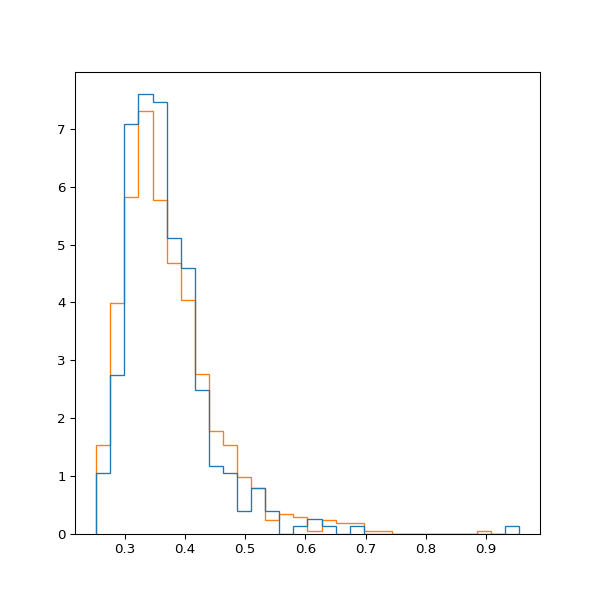
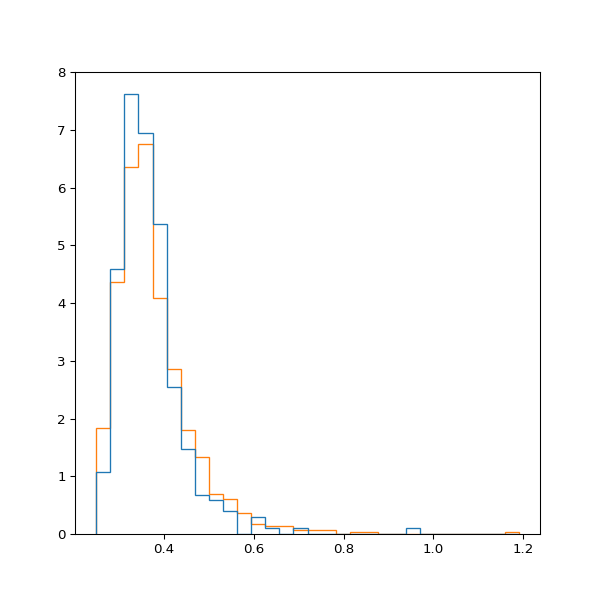
project2

diff --git a/project2/fitting.py b/project2/fitting.py
@@ -14,15 +14,18 @@ def p1model(x, c1, c2, c3, c4):
     sigma1 = c2 * x[:, 3]
     sigma2 = c3 + (1 / (np.exp(c4 * x[:, 1]) - 1))
     mu = c1 * x[:, 2]
-    sigma = (np.power(sigma1, 2) * np.power(sigma2, 2)) / \
-        (np.power(sigma1, 2) + np.power(sigma2, 2))
+    sigma = (np.power(sigma1, 2) * np.power(sigma2, 2)) / (
+        np.power(sigma1, 2) + np.power(sigma2, 2)
+    )
     for i in range(0, 8):
         if np.isnan(sigma[i]):
             sigma[i] = sigma1[i] ** 2
-    result = 0.5 * \
-        (scipy.special.erf((x[:, 0] - mu)/np.sqrt(2*sigma)
-                           ) + scipy.special.erf(mu/np.sqrt(2*sigma)))
+    result = 0.5 * (
+        scipy.special.erf((x[:, 0] - mu) / np.sqrt(2 * sigma))
+        + scipy.special.erf(mu / np.sqrt(2 * sigma))
+    )
     return 1 - result
+
 
 # Problem 1
 
@@ -30,28 +33,34 @@ def p1model(x, c1, c2, c3, c4):
 def mta_fitting(input_tech: bool, data_file_path="./dataset/mta_sample_data.csv"):
     x = []
     y = []
-    if (input_tech):
+    if input_tech:
         onkey = 1
     else:
         onkey = 0
     data = pd.read_csv(data_file_path)
-    key = data['key'] == onkey
-    success = data['success'] == 1
+    key = data["key"] == onkey
+    success = data["success"] == 1
 
     for i in range(1, 9):
-        cond = data['cond'] == i
-        y.append(1 - data[cond & key]['success'].mean())
-        x.append(data[cond & key & success].loc[:, ['timestamp', 't_cue', 't_zone', 'p']].mean().to_numpy())
+        cond = data["cond"] == i
+        y.append(1 - data[cond & key]["success"].mean())
+        x.append(
+            data[cond & key & success]
+            .loc[:, ["timestamp", "t_cue", "t_zone", "p"]]
+            .mean()
+            .to_numpy()
+        )
 
-    popt, _ = scipy.optimize.curve_fit(p1model, x, np.array(
-        y), bounds=([-0.6, 0, 0, 0], [0.6, 0.5, 0.1, 500]))
-    plt.figure(figsize=(600/96, 600/96), dpi=96)
-    plt.plot(y, p1model(x, *popt), 'ro')
-    plt.plot([0, 0.5, 1], [0, 0.5, 1], label='x=y')
+    popt, _ = scipy.optimize.curve_fit(
+        p1model, x, np.array(y), bounds=([-0.6, 0, 0, 0], [0.6, 0.5, 0.1, 500])
+    )
+    plt.figure(figsize=(600 / 96, 600 / 96), dpi=96)
+    plt.plot(y, p1model(x, *popt), "ro")
+    plt.plot([0, 0.5, 1], [0, 0.5, 1], label="x=y")
     if input_tech:
-        plt.savefig('./scatterplot/mta_pressed.png', dpi=96)
+        plt.savefig("./scatterplot/mta_pressed.png", dpi=96)
     else:
-        plt.savefig('./scatterplot/mta_released.png', dpi=96)
+        plt.savefig("./scatterplot/mta_released.png", dpi=96)
     R2 = r2_score(np.array(y), p1model(x, *popt))
     c1, c2, c3, c4 = popt
     return c1, c2, c3, c4, R2
@@ -59,7 +68,8 @@ def mta_fitting(input_tech: bool, data_file_path="./dataset/mta_sample_data.csv"
 
 def p2model(x, a, b):
     x = np.array(x)
-    return a + b * np.log(x[:, 1]/x[:, 0] + 1)
+    return a + b * np.log(x[:, 1] / x[:, 0] + 1)
+
 
 # Problem 2
 
@@ -68,34 +78,34 @@ def fl_fitting(data_file_path="./dataset/pointing_task.csv"):
     x = []
     y = []
     data = pd.read_csv(data_file_path)
-    widths = [data['width'] == 50, data['width'] == 36.7, data['width'] == 15]
-    dists = [data['distance'] == 400, data['distance'] == 800]
-    cond = data['success'] == 1
+    widths = [data["width"] == 50, data["width"] == 36.7, data["width"] == 15]
+    dists = [data["distance"] == 400, data["distance"] == 800]
+    cond = data["success"] == 1
     for i in widths:
         for j in dists:
-            x.append(data[i & j & cond].loc[:, ['width', 'distance']].mean().to_numpy())
-            y.append(data[i & j & cond]['time'].mean())
+            x.append(data[i & j & cond].loc[:, ["width", "distance"]].mean().to_numpy())
+            y.append(data[i & j & cond]["time"].mean())
     popt, _ = scipy.optimize.curve_fit(p2model, x, np.array(y), p0=[0, 1])
-    plt.figure(figsize=(600/96, 600/96), dpi=96)
-    plt.plot(y, p2model(x, *popt), 'ro')
-    plt.plot([0.3, 0.5, 0.7], [0.3, 0.5, 0.7], label='x=y')
-    plt.savefig('./scatterplot/f1.png', dpi=96)
+    plt.figure(figsize=(600 / 96, 600 / 96), dpi=96)
+    plt.plot(y, p2model(x, *popt), "ro")
+    plt.plot([0.3, 0.5, 0.7], [0.3, 0.5, 0.7], label="x=y")
+    plt.savefig("./scatterplot/f1.png", dpi=96)
     R2 = r2_score(p2model(x, *popt), np.array(y))
     a, b = popt
     return a, b, R2
 
 
 # Problem 3
-given_instruction_is = 2    # 1 OR 2
+given_instruction_is = 2  # 1 OR 2
 
 
 def ecdf(x):
     y = np.cumsum(np.ones(x.shape[0]))
-    return np.sort(x), y/y.shape[0]
+    return np.sort(x), y / y.shape[0]
 
 
 def logLikelihood(xdata, x, y):
-    res = (np.interp(xdata + 0.01, x, y) - np.interp(xdata, x, y))/0.01
+    res = (np.interp(xdata + 0.01, x, y) - np.interp(xdata, x, y)) / 0.01
     res[res == 0] = 0.0000000000001
     return np.sum(np.log(res))
 
@@ -113,24 +123,36 @@ def p3model(x, xdata):
 
 # Problem 4
 def dd_fitting(data_file_path="./dataset/choice_reaction.csv"):
-    data = pd.read_csv(data_file_path).sort_values(
-        by=['reaction_time']).to_numpy()
+    data = pd.read_csv(data_file_path).sort_values(by=["reaction_time"]).to_numpy()
 
-    res = scipy.optimize.minimize(p3model, [0.074, 0.31, 0.28], args=(
-        data), method='Nelder-Mead', bounds=[(0.045, 0.075), (0.25, 0.32), (0.25, 0.35)])
+    res = scipy.optimize.minimize(
+        p3model,
+        [0.074, 0.316, 0.283],
+        args=(data),
+        method="L-BFGS-B",
+        bounds=[(0.045, 0.075), (0.25, 0.32), (0.25, 0.35)],
+    )
     print(res)
-    a, mu, Ter = res['x']
+    a, mu, Ter = res["x"]
     xdata = np.array(drift_diffusion_simulation(a, mu, Ter)).T
-    plt.figure(figsize=(600/96, 600/96), dpi=96)
-    plt.hist((data[data[:, 1] == 1][:, 0], xdata[xdata[:, 1] == 1][:, 0]),
-             bins=30, histtype='step', density=True)
-    plt.savefig('./scatterplot/dd_correct.png', dpi=96)
+    plt.figure(figsize=(600 / 96, 600 / 96), dpi=96)
+    plt.hist(
+        (data[data[:, 1] == 1][:, 0], xdata[xdata[:, 1] == 1][:, 0]),
+        bins=30,
+        histtype="step",
+        density=True,
+    )
+    plt.savefig("./scatterplot/dd_correct.png", dpi=96)
     plt.clf()
-    plt.hist((data[data[:, 1] == 0][:, 0], xdata[xdata[:, 1] == 0][:, 0]), 
-             bins=30, histtype='step', density=True)
-    plt.savefig('./scatterplot/dd_error.png', dpi=96)
+    plt.hist(
+        (data[data[:, 1] == 0][:, 0], xdata[xdata[:, 1] == 0][:, 0]),
+        bins=30,
+        histtype="step",
+        density=True,
+    )
+    plt.savefig("./scatterplot/dd_error.png", dpi=96)
 
-    return a, mu, Ter, -res['fun']
+    return a, mu, Ter, -res["fun"]
 
 
 if __name__ == "__main__":

diff --git a/midterm_project/estimate.py b/midterm_project/estimate.py
@@ -3,7 +3,16 @@ import matplotlib.pyplot as plt
 import scipy
 import sklearn
 import pandas as pd
+
 # ... and any Python standard libraries.
+
+
+def gaze_dist(i, t, sigma):
+    sigma = np.identity(2) * (sigma**2)
+    temp = (1 / (2 * np.pi * np.sqrt(sigma))) * np.exp(
+        -0.5 * (i - t).T * np.linalg.inv(sigma) * (i - t)
+    )
+
 
 def estimate(case_number):
     # This will automatically load .csv file in dataset folder
@@ -11,12 +20,14 @@ def estimate(case_number):
 
     # import pandas as pd
     data_trial = pd.read_csv(f"dataset/case{case_number}.csv")
-    data_hp = pd.read_csv(f"dataset/case{case_number}_head_position.csv", header=None)
+    data_hp = pd.read_csv(f"dataset/case{case_number}_head_position.csv", header=None).to_numpy()
+    trial_second = data_trial[data_trial["isPrimary"] == 0]
 
     # return (estimated secondary display position)
     # Note that return value should be iteratable
     # so that it can be converted into numpy.ndarray
     pass
+
 
 if __name__ == "__main__":
     pass

diff --git a/midterm_project/main.py b/midterm_project/main.py
@@ -3,9 +3,12 @@ import matplotlib.pyplot as plt
 import scipy
 import sklearn
 import pandas as pd
+from estimate import estimate
+
 # ... and any Python standard libraries.
 
 if __name__ == "__main__":
     # Create .csv file that contains the estimation result of all five cases
-
+    for i in range(5):
+        estimate(i)
     pass
